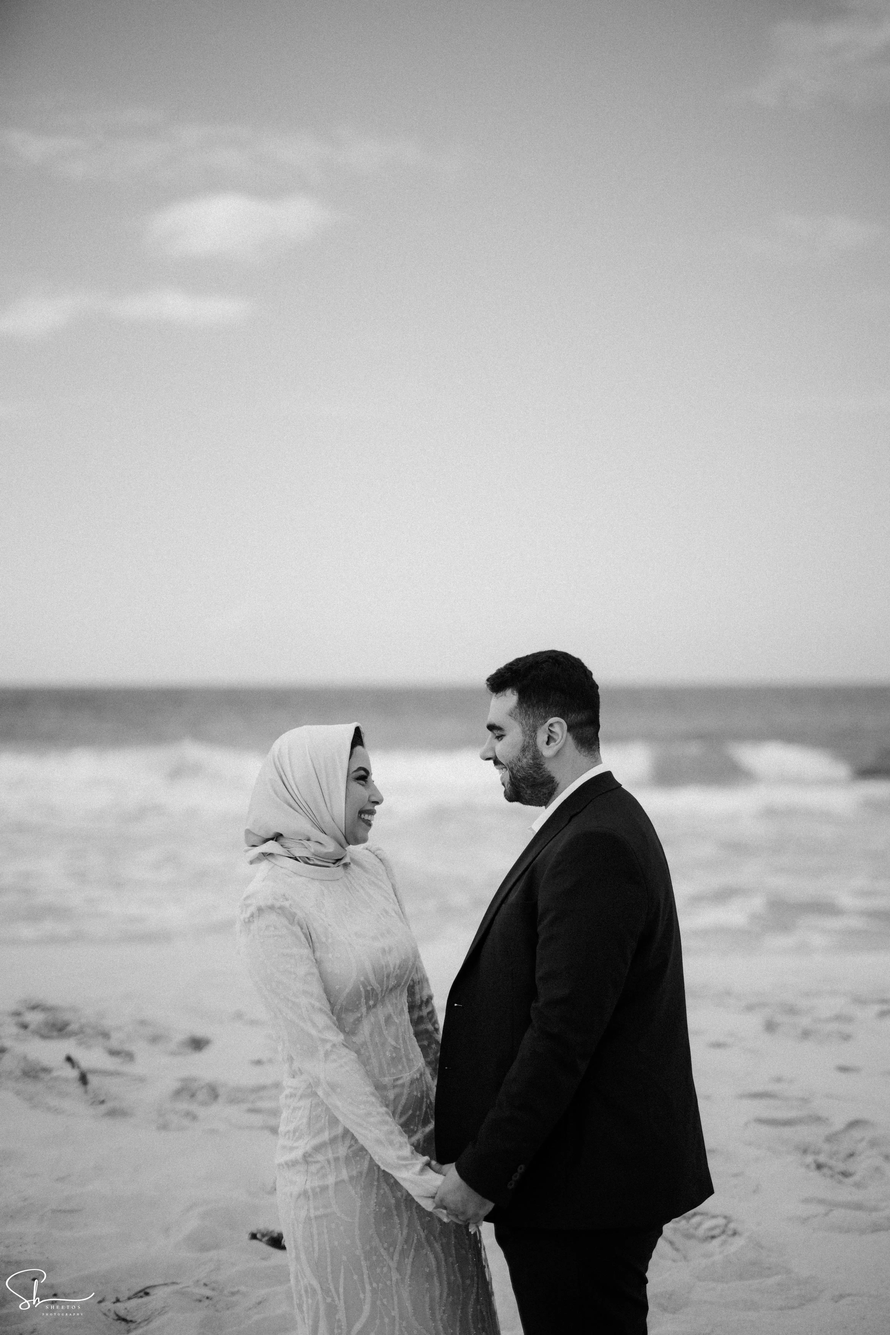
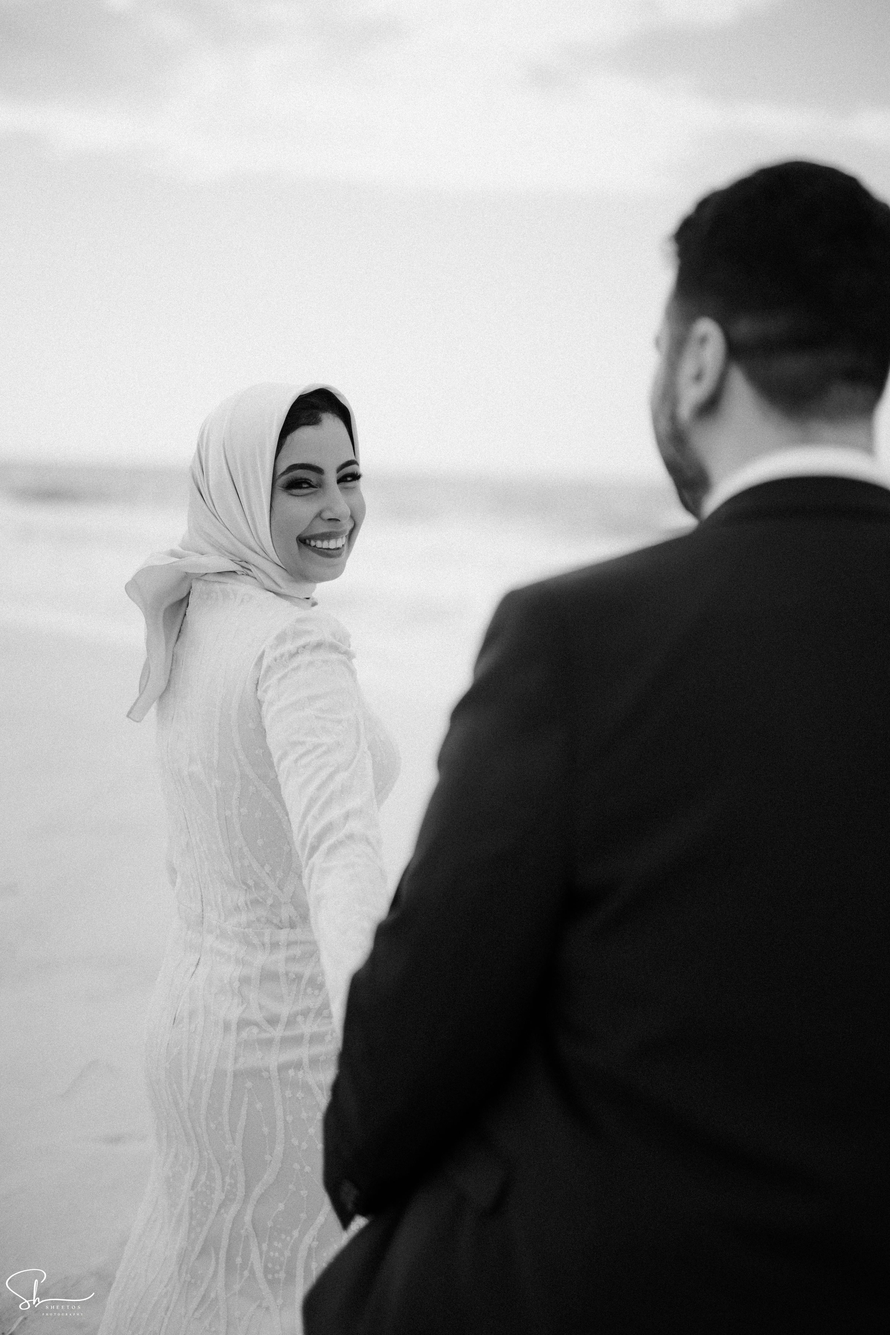
Add files via upload

diff --git a/index.html b/index.html
@@ -7,7 +7,7 @@
 <meta name="description" content="Mohammed & Rowan — Thursday, 15 October 2026, 5:00 PM at Villa Le Marriage. We would be honored to have you with us.">
 <meta name="theme-color" content="#122E24">
 
-<link rel="preload" as="image" href="Session-7.webp" fetchpriority="high">
+<link rel="preload" as="image" href="./Session-7.webp" fetchpriority="high">
 <link rel="preconnect" href="https://fonts.googleapis.com">
 <link rel="preconnect" href="https://fonts.gstatic.com" crossorigin>
 <link href="https://fonts.googleapis.com/css2?family=Amiri:wght@400;700&family=Cormorant+Garamond:ital,wght@0,400;0,500;0,600;1,400;1,500&family=Jost:wght@300;400;500&family=Marcellus&display=swap" rel="stylesheet">
@@ -176,7 +176,7 @@ body.opened #siteHeader{transform:none}
       rgba(30, 35, 28, .35),
       rgba(30, 35, 28, .35)
     ),
-    url("./b2.jpeg") center center / cover no-repeat;
+    url("./b2.webp") center center / cover no-repeat;
   transition:opacity .8s ease;
 }
 .env-overlay::before{
@@ -675,7 +675,7 @@ footer{background:#464831;text-align:center;padding:clamp(4rem,9vw,5.5rem) 1.5re
 
   <div class="env-content">
     <p class="eyebrow" style="color:var(--gold-2)">The Wedding Invitation</p>
-    <h1 class="env-names">Mohammed <em>&amp;</em> Rowan</h1>
+    <h1 class="env-names" >Mohammed <em>&amp;</em> Rowan</h1>
     <p class="env-blessing" lang="ar" dir="rtl">بارك الله لهما وبارك عليهما وجمع بينهما في خير.</p>
 
     <div class="env-scene">
@@ -742,7 +742,7 @@ footer{background:#464831;text-align:center;padding:clamp(4rem,9vw,5.5rem) 1.5re
       </div>
       <div class="hero-photo h-anim" style="--d:.4s">
         <div class="photo-frame">
-          <img src="./Session-11jpg.jpeg" alt="Mohammed and Rowan together" fetchpriority="high" decoding="async">
+          <img src="./Session-11.webp" alt="Mohammed and Rowan together" fetchpriority="high" decoding="async">
         </div>
         <p class="photo-cap">No. VII — Villa Le Marriage</p>
       </div>
@@ -861,7 +861,7 @@ footer{background:#464831;text-align:center;padding:clamp(4rem,9vw,5.5rem) 1.5re
       <div class="g-grid">
         <button class="g-item reveal" style="--d:0s"    aria-label="Open photo 1"><img src="Session-3.webp" alt="Mohammed and Rowan — photo 1" loading="lazy" decoding="async" width="600" height="800"></button>
         <button class="g-item reveal" style="--d:.05s"  aria-label="Open photo 2"><img src="Session-4.webp" alt="Mohammed and Rowan — photo 2" loading="lazy" decoding="async" width="600" height="800"></button>
-        <button class="g-item arch reveal" style="--d:.1s" aria-label="Open photo 3"><img src="Session-12.jpg.jpeg" alt="Mohammed and Rowan — photo 3" loading="lazy" decoding="async" width="600" height="800"></button>
+        <button class="g-item arch reveal" style="--d:.1s" aria-label="Open photo 3"><img src="./Session-12.webp" alt="Mohammed and Rowan — photo 3" loading="lazy" decoding="async" width="600" height="800"></button>
         <button class="g-item reveal" style="--d:.15s"  aria-label="Open photo 4"><img src="Session-10.webp" alt="Mohammed and Rowan — photo 4" loading="lazy" decoding="async" width="600" height="800"></button>
         <button class="g-item reveal" style="--d:.2s"   aria-label="Open photo 5"><img src="Session-8.webp" alt="Mohammed and Rowan — photo 5" loading="lazy" decoding="async" width="600" height="800"></button>
         <button class="g-item reveal" style="--d:.25s"  aria-label="Open photo 6"><img src="Session-7.webp" alt="Mohammed and Rowan — photo 6" loading="lazy" decoding="async" width="600" height="800"></button>
